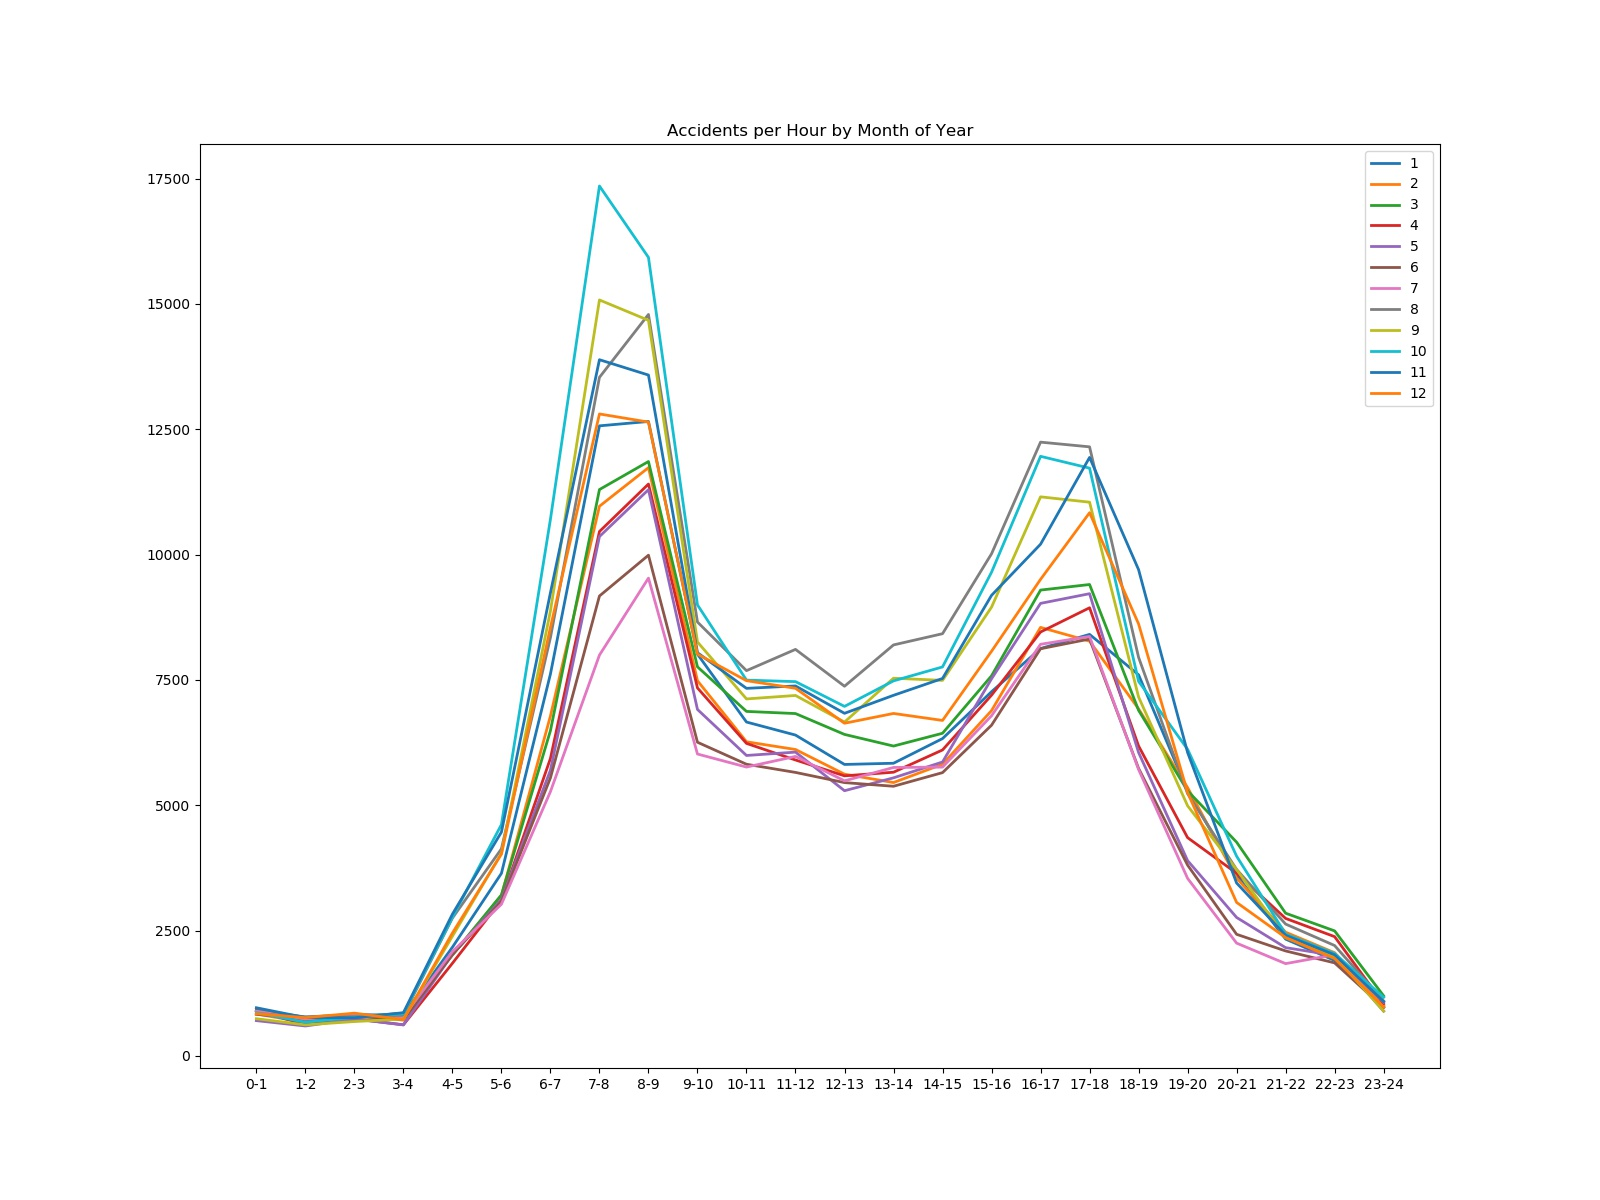
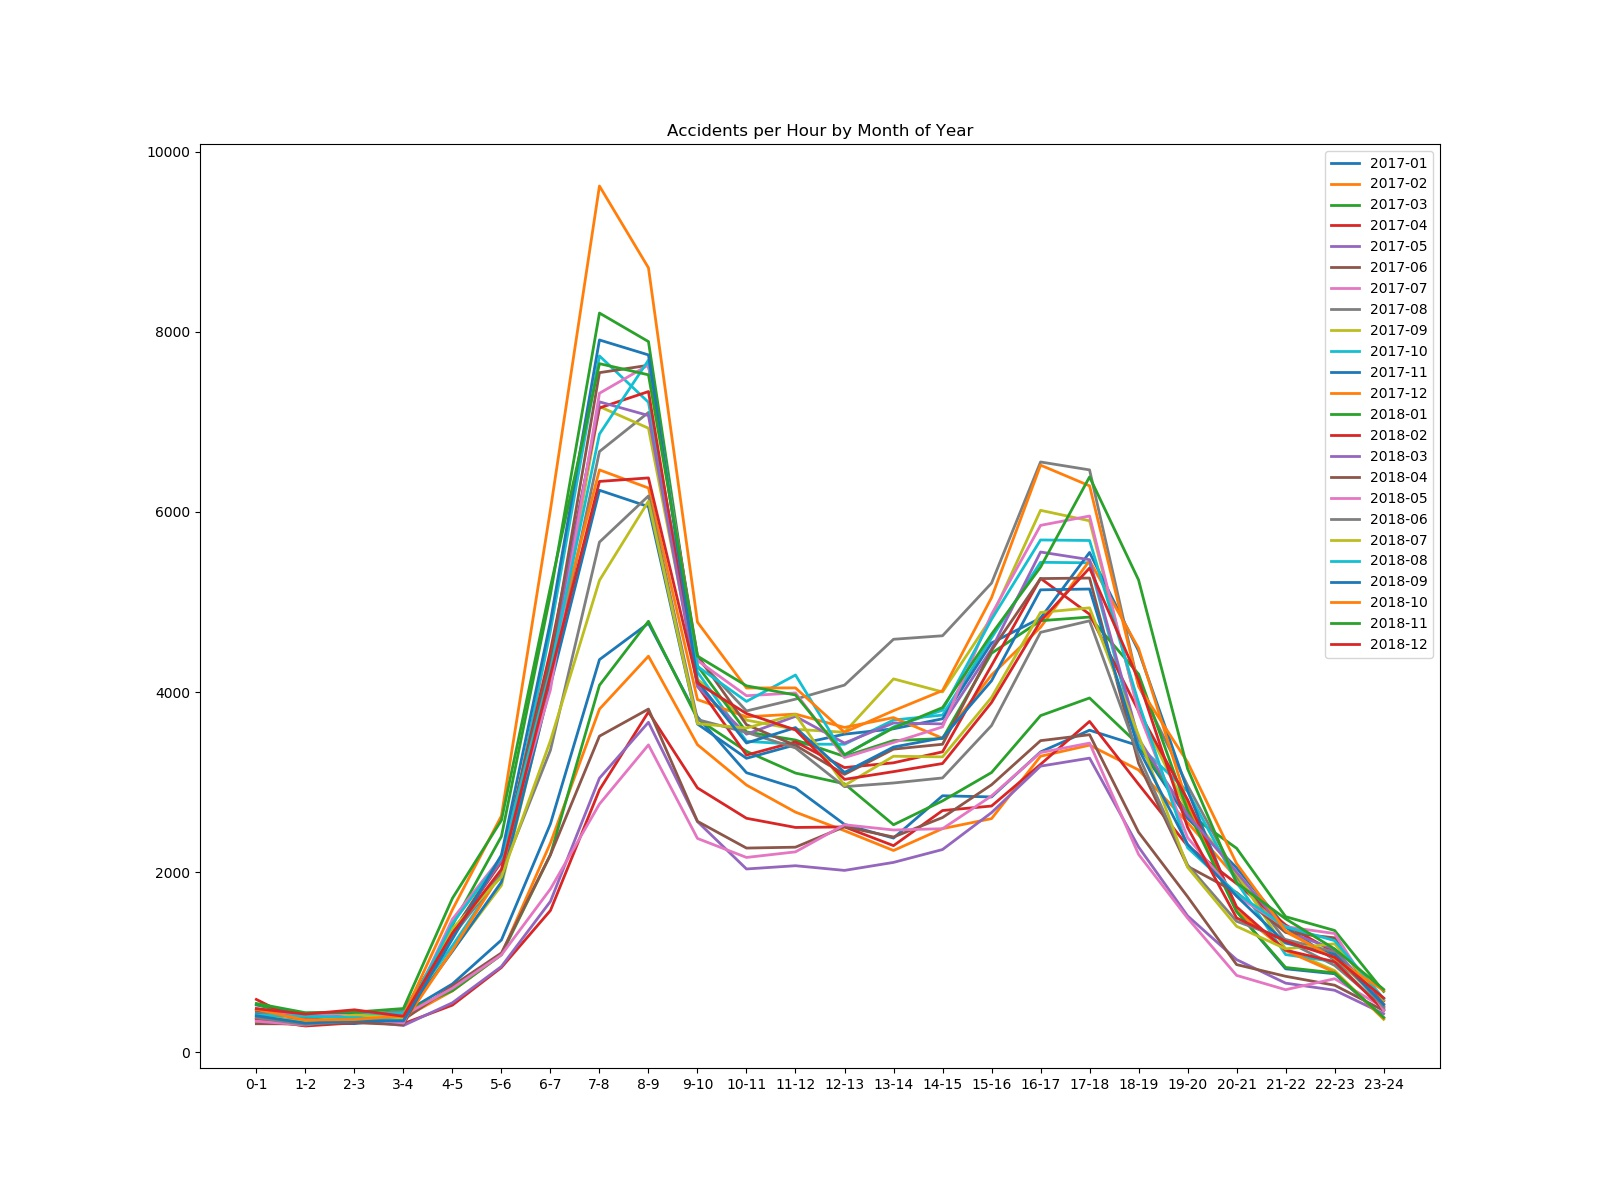
updated graph for hourly by month

diff --git a/SourceCode/UsAccidentsAnalysisFunctions - Copy.py b/SourceCode/UsAccidentsAnalysisFunctions - Copy.py
@@ -916,8 +916,8 @@ def accidentsByMonthByHours(inputDF: pd.DataFrame):
     outputFileSubPath = 'ByMonth/ByHour/'
 
     # Get unique months
-    monthCounts = inputDF['Year-Month'].value_counts(dropna=False).sort_index().tolist()
-    monthLabels = inputDF['Year-Month'].value_counts(dropna=False).sort_index().index.tolist()
+    monthCounts = inputDF['Month'].value_counts(dropna=False).sort_index().tolist()
+    monthLabels = inputDF['Month'].value_counts(dropna=False).sort_index().index.tolist()
 
     # Hours Index for labels
     hourIndex = ['0-1', '1-2', '2-3', '3-4', '4-5', '5-6', '6-7', '7-8', '8-9', '9-10', '10-11', '11-12', '12-13', '13-14', '14-15', '15-16', '16-17', '17-18', '18-19', '19-20', '20-21', '21-22', '22-23', '23-24']
@@ -929,7 +929,7 @@ def accidentsByMonthByHours(inputDF: pd.DataFrame):
     # Repeat for each month:
     for m in monthLabels:
         # Get unique hours & counts
-        hourCounts = inputDF[inputDF['Year-Month'] == m]['Hour'].value_counts(dropna=False).sort_index().tolist()
+        hourCounts = inputDF[inputDF['Month'] == m]['Hour'].value_counts(dropna=False).sort_index().tolist()
         # hourLabels = inputDF[inputDF['Month'] == m]['Hour'].value_counts(dropna=False).sort_index().index.tolist()
         plt.plot(hourIndex, hourCounts, marker = ' ', label = str(m), linewidth=2)
 
